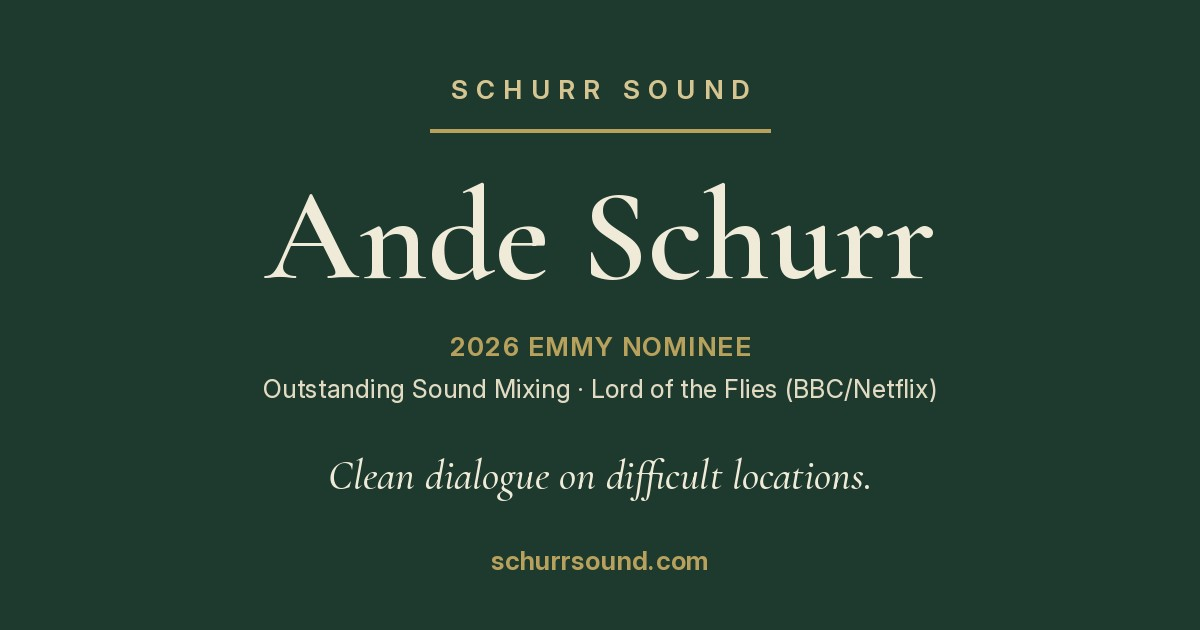
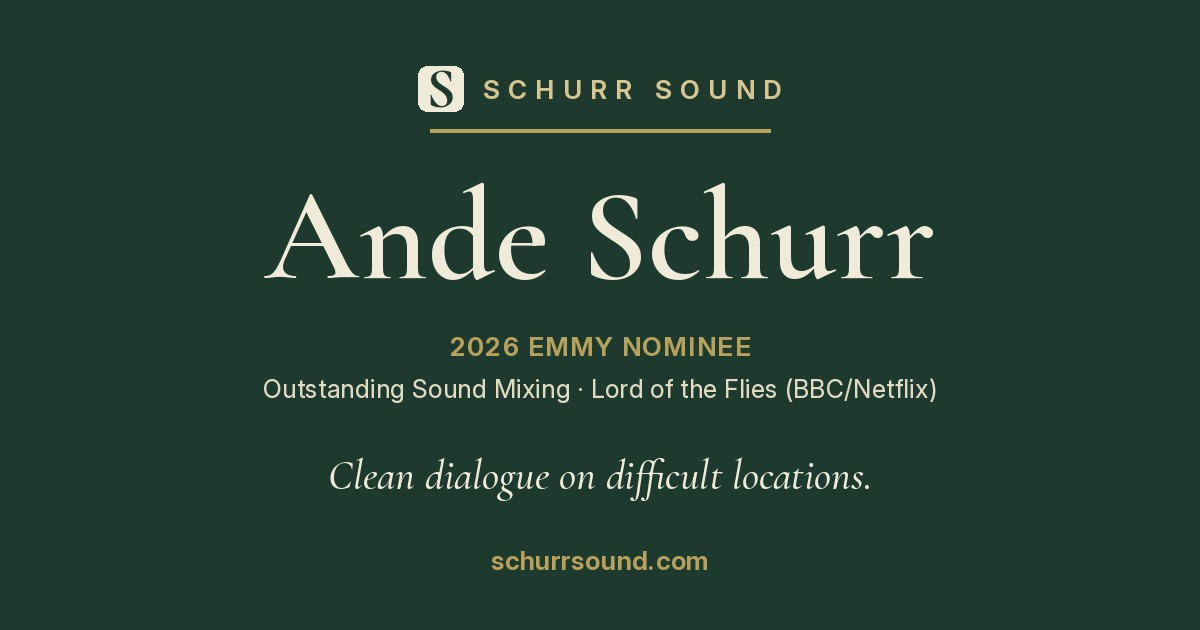
Preview: the S beside the name in every header, and on the home link preview picture
Claude-Session: https://claude.ai/code/session_01DouhgXWTr44TL72pHyCnW9

Changed region(s): [[0.3392, 0.0905, 0.6475, 0.181]]

diff --git a/credits.html b/credits.html
@@ -20,7 +20,7 @@
 <link rel="preconnect" href="https://fonts.googleapis.com">
 <link rel="preconnect" href="https://fonts.gstatic.com" crossorigin>
 <link href="https://fonts.googleapis.com/css2?family=Cormorant+Garamond:ital,wght@0,500;0,600;1,500&family=Inter:wght@400;500;600&display=swap" rel="stylesheet">
-<link rel="stylesheet" href="/assets/site.css?v=202611121700">
+<link rel="stylesheet" href="/assets/site.css?v=202611121730">
 <script type="application/ld+json">
 {
   "@context": "https://schema.org",
@@ -320,7 +320,7 @@
   ]
 }
 </script>
-<script src="/assets/site.js?v=202611121700" defer></script>
+<script src="/assets/site.js?v=202611121730" defer></script>
 <link rel="icon" href="/favicon.ico" sizes="32x32">
 <link rel="icon" href="/favicon.svg" type="image/svg+xml">
 <link rel="apple-touch-icon" href="/apple-touch-icon.png">
@@ -332,7 +332,7 @@
 <nav>
   <script>document.currentScript.parentNode.classList.add('js')</script>
   <div class="wrap nav-in">
-    <a class="wordmark" href="/">SCHURR <span>SOUND</span></a>
+    <a class="wordmark" href="/"><img class="mark" src="/favicon.svg" width="30" height="30" alt="">SCHURR <span>SOUND</span></a>
     <ul class="nav-links" id="site-menu">
       <li><a href="/credits" aria-current="page">Credits</a></li>
       <li><a href="/drama-sound-mixer">Drama</a></li>

diff --git a/notes/dialogue-beside-a-waterfall.html b/notes/dialogue-beside-a-waterfall.html
@@ -23,7 +23,7 @@
 <link rel="preconnect" href="https://fonts.googleapis.com">
 <link rel="preconnect" href="https://fonts.gstatic.com" crossorigin>
 <link href="https://fonts.googleapis.com/css2?family=Cormorant+Garamond:ital,wght@0,500;0,600;1,500&family=Inter:wght@400;500;600&display=swap" rel="stylesheet">
-<link rel="stylesheet" href="/assets/site.css?v=202611121700">
+<link rel="stylesheet" href="/assets/site.css?v=202611121730">
 <script type="application/ld+json">
 {
   "@context": "https://schema.org",
@@ -64,7 +64,7 @@
   }
 }
 </script>
-<script src="/assets/site.js?v=202611121700" defer></script>
+<script src="/assets/site.js?v=202611121730" defer></script>
 <link rel="icon" href="/favicon.ico" sizes="32x32">
 <link rel="icon" href="/favicon.svg" type="image/svg+xml">
 <link rel="apple-touch-icon" href="/apple-touch-icon.png">
@@ -74,7 +74,7 @@
 <nav>
   <script>document.currentScript.parentNode.classList.add('js')</script>
   <div class="wrap nav-in">
-    <a class="wordmark" href="/">SCHURR <span>SOUND</span></a>
+    <a class="wordmark" href="/"><img class="mark" src="/favicon.svg" width="30" height="30" alt="">SCHURR <span>SOUND</span></a>
     <ul class="nav-links" id="site-menu">
       <li><a href="/credits">Credits</a></li>
       <li><a href="/drama-sound-mixer">Drama</a></li>

diff --git a/notes/index.html b/notes/index.html
@@ -20,7 +20,7 @@
 <link rel="preconnect" href="https://fonts.googleapis.com">
 <link rel="preconnect" href="https://fonts.gstatic.com" crossorigin>
 <link href="https://fonts.googleapis.com/css2?family=Cormorant+Garamond:ital,wght@0,500;0,600;1,500&family=Inter:wght@400;500;600&display=swap" rel="stylesheet">
-<link rel="stylesheet" href="/assets/site.css?v=202611121700">
+<link rel="stylesheet" href="/assets/site.css?v=202611121730">
 <script type="application/ld+json">
 {
   "@context": "https://schema.org",
@@ -61,7 +61,7 @@
   ]
 }
 </script>
-<script src="/assets/site.js?v=202611121700" defer></script>
+<script src="/assets/site.js?v=202611121730" defer></script>
 <link rel="icon" href="/favicon.ico" sizes="32x32">
 <link rel="icon" href="/favicon.svg" type="image/svg+xml">
 <link rel="apple-touch-icon" href="/apple-touch-icon.png">
@@ -71,7 +71,7 @@
 <nav>
   <script>document.currentScript.parentNode.classList.add('js')</script>
   <div class="wrap nav-in">
-    <a class="wordmark" href="/">SCHURR <span>SOUND</span></a>
+    <a class="wordmark" href="/"><img class="mark" src="/favicon.svg" width="30" height="30" alt="">SCHURR <span>SOUND</span></a>
     <ul class="nav-links" id="site-menu">
       <li><a href="/credits">Credits</a></li>
       <li><a href="/drama-sound-mixer">Drama</a></li>

diff --git a/production-sound-mixer-singapore.html b/production-sound-mixer-singapore.html
@@ -20,7 +20,7 @@
 <link rel="preconnect" href="https://fonts.googleapis.com">
 <link rel="preconnect" href="https://fonts.gstatic.com" crossorigin>
 <link href="https://fonts.googleapis.com/css2?family=Cormorant+Garamond:ital,wght@0,500;0,600;1,500&family=Inter:wght@400;500;600&display=swap" rel="stylesheet">
-<link rel="stylesheet" href="/assets/site.css?v=202611121700">
+<link rel="stylesheet" href="/assets/site.css?v=202611121730">
 <script type="application/ld+json">
 {
   "@context": "https://schema.org",
@@ -70,7 +70,7 @@
   ]
 }
 </script>
-<script src="/assets/site.js?v=202611121700" defer></script>
+<script src="/assets/site.js?v=202611121730" defer></script>
 <link rel="icon" href="/favicon.ico" sizes="32x32">
 <link rel="icon" href="/favicon.svg" type="image/svg+xml">
 <link rel="apple-touch-icon" href="/apple-touch-icon.png">
@@ -80,7 +80,7 @@
 <nav>
   <script>document.currentScript.parentNode.classList.add('js')</script>
   <div class="wrap nav-in">
-    <a class="wordmark" href="/">SCHURR <span>SOUND</span></a>
+    <a class="wordmark" href="/"><img class="mark" src="/favicon.svg" width="30" height="30" alt="">SCHURR <span>SOUND</span></a>
     <ul class="nav-links" id="site-menu">
       <li><a href="/credits">Credits</a></li>
       <li><a href="/drama-sound-mixer">Drama</a></li>

diff --git a/wild-track/map.html b/wild-track/map.html
@@ -17,8 +17,8 @@
 <meta name="twitter:description" content="A running map of productions across Asia-Pacific, from Ande Schurr's own network and public sources.">
 <meta name="twitter:image" content="https://schurrsound.com/wild-track/og-wild-track.png">
 <link rel="canonical" href="https://schurrsound.com/whats-shooting">
-<link rel="stylesheet" href="/assets/site.css?v=202611121700">
-<script src="/assets/site.js?v=202611121700" defer></script>
+<link rel="stylesheet" href="/assets/site.css?v=202611121730">
+<script src="/assets/site.js?v=202611121730" defer></script>
 <link rel="icon" href="/favicon.ico" sizes="32x32">
 <link rel="icon" href="/favicon.svg" type="image/svg+xml">
 <link rel="apple-touch-icon" href="/apple-touch-icon.png">
@@ -27,7 +27,7 @@
 <nav>
   <script>document.currentScript.parentNode.classList.add('js')</script>
   <div class="wrap nav-in">
-    <a class="wordmark" href="/">SCHURR <span>SOUND</span></a>
+    <a class="wordmark" href="/"><img class="mark" src="/favicon.svg" width="30" height="30" alt="">SCHURR <span>SOUND</span></a>
     <ul class="nav-links" id="site-menu">
       <li><a href="/credits">Credits</a></li>
       <li><a href="/drama-sound-mixer">Drama</a></li>

diff --git a/wild-track/archive.html b/wild-track/archive.html
@@ -20,8 +20,8 @@
 <link rel="preconnect" href="https://fonts.gstatic.com" crossorigin>
 <link href="https://fonts.googleapis.com/css2?family=Cormorant+Garamond:ital,wght@0,500;0,600;1,500&family=Inter:wght@400;500;600&display=swap" rel="stylesheet">
 <link rel="canonical" href="https://schurrsound.com/wild-track/archive">
-<link rel="stylesheet" href="/assets/site.css?v=202611121700">
-<script src="/assets/site.js?v=202611121700" defer></script>
+<link rel="stylesheet" href="/assets/site.css?v=202611121730">
+<script src="/assets/site.js?v=202611121730" defer></script>
 <link rel="icon" href="/favicon.ico" sizes="32x32">
 <link rel="icon" href="/favicon.svg" type="image/svg+xml">
 <link rel="apple-touch-icon" href="/apple-touch-icon.png">
@@ -31,7 +31,7 @@
 <nav>
   <script>document.currentScript.parentNode.classList.add('js')</script>
   <div class="wrap nav-in">
-    <a class="wordmark" href="/">SCHURR <span>SOUND</span></a>
+    <a class="wordmark" href="/"><img class="mark" src="/favicon.svg" width="30" height="30" alt="">SCHURR <span>SOUND</span></a>
     <ul class="nav-links" id="site-menu">
       <li><a href="/credits">Credits</a></li>
       <li><a href="/drama-sound-mixer">Drama</a></li>

diff --git a/wild-track/index.html b/wild-track/index.html
@@ -20,8 +20,8 @@
 <link rel="preconnect" href="https://fonts.gstatic.com" crossorigin>
 <link href="https://fonts.googleapis.com/css2?family=Cormorant+Garamond:ital,wght@0,500;0,600;1,500&family=Inter:wght@400;500;600&display=swap" rel="stylesheet">
 <link rel="canonical" href="https://schurrsound.com/wild-track">
-<link rel="stylesheet" href="/assets/site.css?v=202611121700">
-<script src="/assets/site.js?v=202611121700" defer></script>
+<link rel="stylesheet" href="/assets/site.css?v=202611121730">
+<script src="/assets/site.js?v=202611121730" defer></script>
 <link rel="icon" href="/favicon.ico" sizes="32x32">
 <link rel="icon" href="/favicon.svg" type="image/svg+xml">
 <link rel="apple-touch-icon" href="/apple-touch-icon.png">
@@ -31,7 +31,7 @@
 <nav>
   <script>document.currentScript.parentNode.classList.add('js')</script>
   <div class="wrap nav-in">
-    <a class="wordmark" href="/">SCHURR <span>SOUND</span></a>
+    <a class="wordmark" href="/"><img class="mark" src="/favicon.svg" width="30" height="30" alt="">SCHURR <span>SOUND</span></a>
     <ul class="nav-links" id="site-menu">
       <li><a href="/credits">Credits</a></li>
       <li><a href="/drama-sound-mixer">Drama</a></li>

diff --git a/press.html b/press.html
@@ -16,8 +16,8 @@
 <link rel="preconnect" href="https://fonts.googleapis.com">
 <link rel="preconnect" href="https://fonts.gstatic.com" crossorigin>
 <link href="https://fonts.googleapis.com/css2?family=Cormorant+Garamond:ital,wght@0,500;0,600;1,500&family=Inter:wght@400;500;600&display=swap" rel="stylesheet">
-<link rel="stylesheet" href="/assets/site.css?v=202611121700">
-<script src="/assets/site.js?v=202611121700" defer></script>
+<link rel="stylesheet" href="/assets/site.css?v=202611121730">
+<script src="/assets/site.js?v=202611121730" defer></script>
 <link rel="icon" href="/favicon.ico" sizes="32x32">
 <link rel="icon" href="/favicon.svg" type="image/svg+xml">
 <link rel="apple-touch-icon" href="/apple-touch-icon.png">
@@ -29,7 +29,7 @@
 <nav>
   <script>document.currentScript.parentNode.classList.add('js')</script>
   <div class="wrap nav-in">
-    <a class="wordmark" href="/">SCHURR <span>SOUND</span></a>
+    <a class="wordmark" href="/"><img class="mark" src="/favicon.svg" width="30" height="30" alt="">SCHURR <span>SOUND</span></a>
     <ul class="nav-links" id="site-menu">
       <li><a href="/credits">Credits</a></li>
       <li><a href="/drama-sound-mixer">Drama</a></li>

diff --git a/wild-track/confirmed.html b/wild-track/confirmed.html
@@ -15,8 +15,8 @@
 <link rel="preconnect" href="https://fonts.googleapis.com">
 <link rel="preconnect" href="https://fonts.gstatic.com" crossorigin>
 <link href="https://fonts.googleapis.com/css2?family=Cormorant+Garamond:ital,wght@0,500;0,600;1,500&family=Inter:wght@400;500;600&display=swap" rel="stylesheet">
-<link rel="stylesheet" href="/assets/site.css?v=202611121700">
-<script src="/assets/site.js?v=202611121700" defer></script>
+<link rel="stylesheet" href="/assets/site.css?v=202611121730">
+<script src="/assets/site.js?v=202611121730" defer></script>
 <link rel="icon" href="/favicon.ico" sizes="32x32">
 <link rel="icon" href="/favicon.svg" type="image/svg+xml">
 <link rel="apple-touch-icon" href="/apple-touch-icon.png">
@@ -26,7 +26,7 @@
 <nav>
   <script>document.currentScript.parentNode.classList.add('js')</script>
   <div class="wrap nav-in">
-    <a class="wordmark" href="/">SCHURR <span>SOUND</span></a>
+    <a class="wordmark" href="/"><img class="mark" src="/favicon.svg" width="30" height="30" alt="">SCHURR <span>SOUND</span></a>
     <ul class="nav-links" id="site-menu">
       <li><a href="/credits">Credits</a></li>
       <li><a href="/drama-sound-mixer">Drama</a></li>

diff --git a/drama-sound-mixer.html b/drama-sound-mixer.html
@@ -20,8 +20,8 @@
 <link rel="preconnect" href="https://fonts.googleapis.com">
 <link rel="preconnect" href="https://fonts.gstatic.com" crossorigin>
 <link href="https://fonts.googleapis.com/css2?family=Cormorant+Garamond:ital,wght@0,500;0,600;1,500&family=Inter:wght@400;500;600&display=swap" rel="stylesheet">
-<link rel="stylesheet" href="/assets/site.css?v=202611121700">
-<script src="/assets/site.js?v=202611121700" defer></script>
+<link rel="stylesheet" href="/assets/site.css?v=202611121730">
+<script src="/assets/site.js?v=202611121730" defer></script>
 <script type="application/ld+json">
 {
   "@context": "https://schema.org",
@@ -54,7 +54,7 @@
 <nav>
   <script>document.currentScript.parentNode.classList.add('js')</script>
   <div class="wrap nav-in">
-    <a class="wordmark" href="/">SCHURR <span>SOUND</span></a>
+    <a class="wordmark" href="/"><img class="mark" src="/favicon.svg" width="30" height="30" alt="">SCHURR <span>SOUND</span></a>
     <ul class="nav-links" id="site-menu">
       <li><a href="/credits">Credits</a></li>
       <li><a href="/drama-sound-mixer" aria-current="page">Drama</a></li>

diff --git a/about.html b/about.html
@@ -18,8 +18,8 @@
 <link rel="preconnect" href="https://fonts.googleapis.com">
 <link rel="preconnect" href="https://fonts.gstatic.com" crossorigin>
 <link href="https://fonts.googleapis.com/css2?family=Cormorant+Garamond:ital,wght@0,500;0,600;1,500&family=Inter:wght@400;500;600&display=swap" rel="stylesheet">
-<link rel="stylesheet" href="/assets/site.css?v=202611121700">
-<script src="/assets/site.js?v=202611121700" defer></script>
+<link rel="stylesheet" href="/assets/site.css?v=202611121730">
+<script src="/assets/site.js?v=202611121730" defer></script>
 <script type="application/ld+json">
 {
   "@context": "https://schema.org",
@@ -65,7 +65,7 @@
 <nav>
   <script>document.currentScript.parentNode.classList.add('js')</script>
   <div class="wrap nav-in">
-    <a class="wordmark" href="/">SCHURR <span>SOUND</span></a>
+    <a class="wordmark" href="/"><img class="mark" src="/favicon.svg" width="30" height="30" alt="">SCHURR <span>SOUND</span></a>
     <ul class="nav-links" id="site-menu">
       <li><a href="/credits">Credits</a></li>
       <li><a href="/drama-sound-mixer">Drama</a></li>

diff --git a/corporate-video-sound-singapore.html b/corporate-video-sound-singapore.html
@@ -20,8 +20,8 @@
 <link rel="preconnect" href="https://fonts.googleapis.com">
 <link rel="preconnect" href="https://fonts.gstatic.com" crossorigin>
 <link href="https://fonts.googleapis.com/css2?family=Cormorant+Garamond:ital,wght@0,500;0,600;1,500&family=Inter:wght@400;500;600&display=swap" rel="stylesheet">
-<link rel="stylesheet" href="/assets/site.css?v=202611121700">
-<script src="/assets/site.js?v=202611121700" defer></script>
+<link rel="stylesheet" href="/assets/site.css?v=202611121730">
+<script src="/assets/site.js?v=202611121730" defer></script>
 <script type="application/ld+json">
 {
   "@context": "https://schema.org",
@@ -52,7 +52,7 @@
 <nav>
   <script>document.currentScript.parentNode.classList.add('js')</script>
   <div class="wrap nav-in">
-    <a class="wordmark" href="/">SCHURR <span>SOUND</span></a>
+    <a class="wordmark" href="/"><img class="mark" src="/favicon.svg" width="30" height="30" alt="">SCHURR <span>SOUND</span></a>
     <ul class="nav-links" id="site-menu">
       <li><a href="/credits">Credits</a></li>
       <li><a href="/drama-sound-mixer">Drama</a></li>
